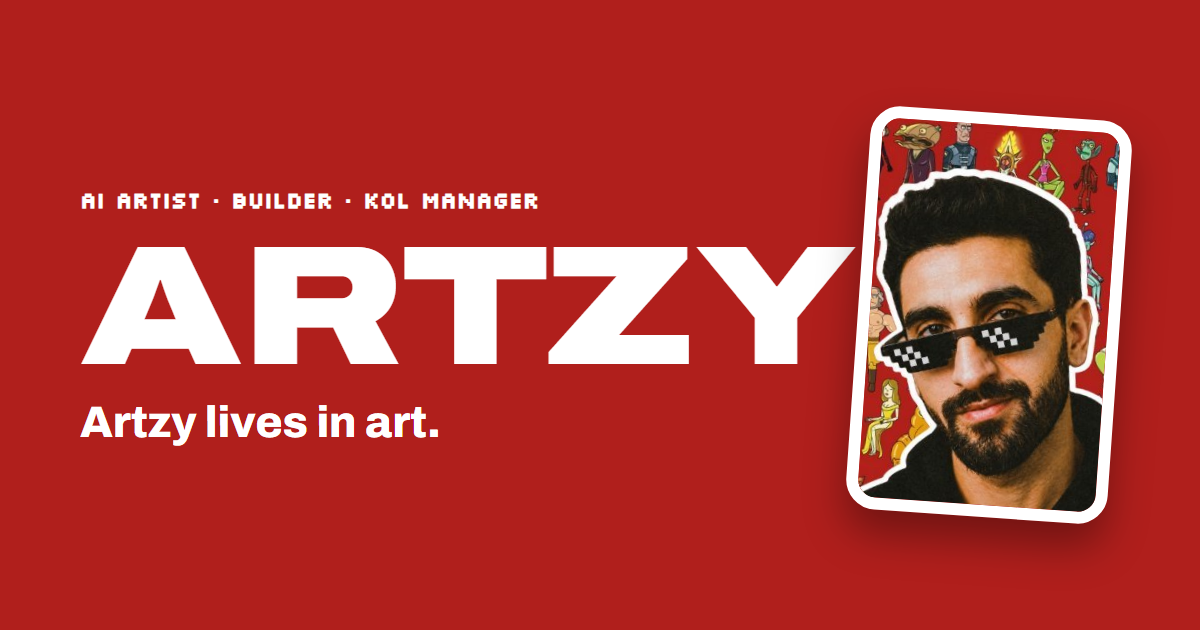
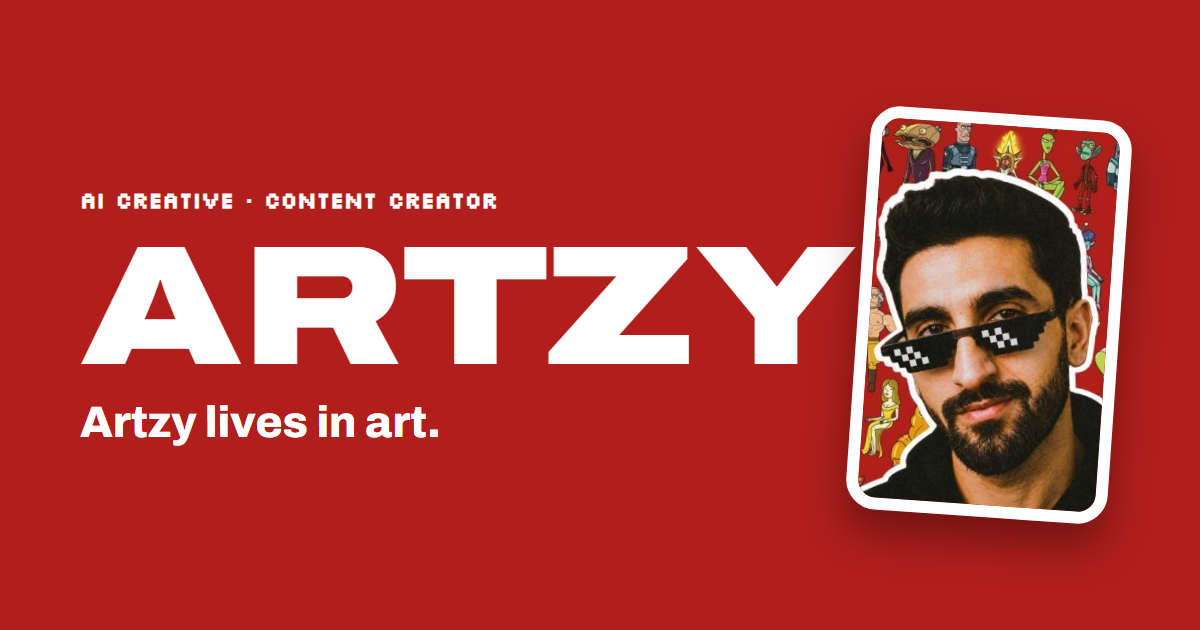
Lead with AI creativity, video and content creation

Changed region(s): [[0.0925, 0.3016, 0.4625, 0.3317]]

diff --git a/index.html b/index.html
@@ -3,9 +3,9 @@
 <head>
 <meta charset="utf-8">
 <meta name="viewport" content="width=device-width, initial-scale=1, viewport-fit=cover">
-<title>Artzy · AI artist & builder</title>
-<meta name="description" content="Artzy lives in art. AI artist, builder and KOL manager in crypto since 2021. Builds with Ledger, community with Base.">
-<meta property="og:title" content="Artzy · AI artist & builder">
+<title>Artzy · AI creative & content creator</title>
+<meta name="description" content="Artzy lives in art. AI creative and content creator: AI videos, art, guides and tools. Deep in AI since ChatGPT launched, in crypto since 2021.">
+<meta property="og:title" content="Artzy · AI creative & content creator">
 <meta property="og:description" content="Artzy lives in art. AI films, agent builds and community work across AI and web3.">
 <meta property="og:image" content="https://webartzy.github.io/assets/og.png">
 <meta property="og:type" content="website">
@@ -80,6 +80,20 @@ nav ul a:hover{color:var(--paper)}
 .do-card h3{font-size:20px;font-weight:800}
 .do-card p{color:var(--muted);font-size:15px}
 
+/* story */
+.story{display:grid;gap:22px;border-top:1px solid var(--line);padding-top:36px}
+.story .big{font:800 clamp(28px,4vw,46px)/1.08 var(--display);font-stretch:108%;max-width:24ch;text-wrap:balance}
+.story .big em{font-style:normal;color:var(--red-text)}
+.story-cols{display:grid;grid-template-columns:repeat(2,minmax(0,1fr));gap:28px;color:var(--muted);font-size:18px}
+
+/* video formats */
+.formats{display:grid;grid-template-columns:repeat(2,minmax(0,1fr));gap:12px}
+.format{border:1px solid var(--line);border-radius:16px;padding:24px;display:grid;gap:10px;align-content:start;background:linear-gradient(180deg,var(--panel),var(--ink))}
+.format h3{font-size:24px;font-weight:900;font-stretch:112%}
+.format p{color:var(--muted);font-size:16px}
+.btn-line{justify-self:start;text-decoration:none;font-family:var(--pixel);font-size:12px;text-transform:uppercase;border-bottom:2px solid var(--red);padding-bottom:4px}
+.btn-line:hover{color:var(--red-text)}
+
 /* experience timeline */
 .timeline{list-style:none;margin:0;padding:0;display:grid;border-top:1px solid var(--line)}
 .job{display:grid;grid-template-columns:150px minmax(0,1fr) minmax(0,1.3fr);gap:24px;padding-block:26px;border-bottom:1px solid var(--line);align-items:start}
@@ -128,6 +142,7 @@ footer{display:flex;flex-wrap:wrap;justify-content:space-between;gap:10px;color:
   .job{grid-template-columns:1fr;gap:10px}
 }
 @media (max-width:720px){
+  .story-cols,.formats{grid-template-columns:1fr}
   .hero{grid-template-columns:1fr;padding:28px 22px}
   .hero-art{order:-1;justify-items:start}
   .sticker{width:min(64%,240px)}
@@ -155,10 +170,10 @@ footer{display:flex;flex-wrap:wrap;justify-content:space-between;gap:10px;color:
 
   <header class="hero" id="top">
     <div class="hero-copy">
-      <p class="px">AI artist · builder · KOL manager</p>
+      <p class="px">AI creative · content creator · builder</p>
       <h1>Artzy</h1>
       <p class="tag">Artzy lives in art.</p>
-      <p class="intro">I make AI films and art, build small tools that show where AI meets web3, and bring creators together. In crypto since 2021, and a self-custody believer.</p>
+      <p class="intro">I'm a creative first. I turn new AI tools into videos, art and stories people actually want to watch, and I build my own tools along the way. Deep in AI since the day ChatGPT launched, in crypto since 2021.</p>
       <div class="cta-row">
         <a class="btn" href="#contact">Work with me</a>
         <a class="btn ghost" href="https://x.com/heyartzy" target="_blank" rel="noopener">Follow on X ↗</a>
@@ -177,25 +192,56 @@ footer{display:flex;flex-wrap:wrap;justify-content:space-between;gap:10px;color:
   </header>
 
   <div class="facts">
+    <div class="fact"><b>2022</b><span>deep in AI since ChatGPT launched</span></div>
+    <div class="fact"><b>Daily</b><span>creating and building with AI</span></div>
     <div class="fact"><b>2021</b><span>in crypto since</span></div>
-    <div class="fact"><b>200+</b><span>KOLs worked with on campaigns</span></div>
-    <div class="fact"><b>4</b><span>open-source builds shipped</span></div>
-    <div class="fact"><b>Op3n</b><span>community activation winner</span></div>
+    <div class="fact"><b>Op3n</b><span>AI short film, activation winner</span></div>
   </div>
 
-  <section aria-labelledby="do">
-    <div class="head"><p class="px red">What I do</p><h2 id="do">Art, builds and people</h2></div>
-    <div class="do">
-      <div class="do-card"><span class="ic">01</span><h3>AI films &amp; art</h3><p>Short cinematic videos and AI art. Story first, product second.</p></div>
-      <div class="do-card"><span class="ic">02</span><h3>Vibe-coded builds</h3><p>Small open-source tools that turn an AI × web3 idea into a demo people can try.</p></div>
-      <div class="do-card"><span class="ic">03</span><h3>KOL management</h3><p>I brief, coordinate and review creators on campaigns, from first DM to final report.</p></div>
-      <div class="do-card"><span class="ic">04</span><h3>Community</h3><p>Moderating, onboarding and showing up in the replies every day.</p></div>
+  <section aria-labelledby="story">
+    <div class="story">
+      <p class="px red">My story</p>
+      <p class="big">The day ChatGPT launched, I went all in on AI creativity. <em>I haven't stopped since.</em></p>
+      <div class="story-cols">
+        <p>I've watched every wave up close: the first chatbots, the image models, the video models, and now agents. I don't just read about the updates. I open them on day one, test them, and use them in my work every single day.</p>
+        <p>When a tool I need doesn't exist, I build it. That's how FinalSay and Agent Pays Agent started. Everything I learn turns into content, so the people who follow me get the honest version: what works, what breaks, and how to make something good with it.</p>
+      </div>
     </div>
   </section>
 
+  <section aria-labelledby="do">
+    <div class="head"><p class="px red">What I do</p><h2 id="do">Creative work, made with AI</h2></div>
+    <div class="do">
+      <div class="do-card"><span class="ic">01</span><h3>AI video</h3><p>Cinematic shorts, brand and product videos, character and fashion pieces, and practical tutorials. I write, prompt, direct and edit every one.</p></div>
+      <div class="do-card"><span class="ic">02</span><h3>Content creation</h3><p>Posts, threads, X articles and guides that turn new AI tools into something people can use today. Plus a daily build journal.</p></div>
+      <div class="do-card"><span class="ic">03</span><h3>AI art &amp; direction</h3><p>Visual concepts, storyboards and style boards. I care about the idea before the prompt.</p></div>
+      <div class="do-card"><span class="ic">04</span><h3>Tools I build</h3><p>Vibe-coded tools for my own workflow and open-source demos where AI meets web3.</p></div>
+    </div>
+  </section>
+
+  <section aria-labelledby="video">
+    <div class="head"><p class="px red">Video</p><h2 id="video">Videos that tell a story</h2></div>
+    <div class="formats">
+      <div class="format"><h3>Cinematic AI shorts</h3><p>Story-led films made with the newest video models. My short for Ledger Op3n won the community activation.</p><span class="px red">Story · mood · pacing</span></div>
+      <div class="format"><h3>Brand &amp; product videos</h3><p>Launches, features and announcements told as a story, not an ad. Made for brands in AI and web3.</p><span class="px red">Concept to final cut</span></div>
+      <div class="format"><h3>Tutorials &amp; walkthroughs</h3><p>Screen recordings and step-by-step guides that show a tool working for real, from install to result.</p><span class="px red">Practical · honest</span></div>
+      <div class="format"><h3>Character &amp; fashion</h3><p>Consistent characters, outfit transitions and style boards turned into motion. I wrote a guide on keeping faces and scenes consistent.</p><span class="px red">Consistency · craft</span></div>
+    </div>
+    <a class="btn-line" href="https://x.com/heyartzy/media" target="_blank" rel="noopener">Watch my latest videos on X ↗</a>
+  </section>
+
   <section id="experience" aria-labelledby="exp">
-    <div class="head"><p class="px red">Experience</p><h2 id="exp">Where I've worked</h2></div>
+    <div class="head"><p class="px red">Experience</p><h2 id="exp">Experience</h2></div>
     <ol class="timeline">
+      <li class="job">
+        <span class="when">2022 – now</span>
+        <div class="org"><h3>Artzy</h3><span>AI creative · content creator</span></div>
+        <ul>
+          <li>Creating with AI daily since ChatGPT launched: videos, art, guides and tools</li>
+          <li><strong>AI videos and content</strong> for brands and communities in AI and web3</li>
+          <li>Building in public with a daily journal and open-source tools</li>
+        </ul>
+      </li>
       <li class="job">
         <span class="when">2025 – now</span>
         <div class="org"><h3>Ledger</h3><span>Discord admin · inner circle</span></div>
@@ -279,7 +325,7 @@ footer{display:flex;flex-wrap:wrap;justify-content:space-between;gap:10px;color:
   <section id="contact" aria-labelledby="ct">
     <div class="contact">
       <div>
-        <p class="px">Collaborations · campaigns · videos</p>
+        <p class="px">AI videos · content · brand collabs</p>
         <h2 id="ct">Let's make something</h2>
         <div class="mail">
           <a href="mailto:onchainartzy@gmail.com" id="mail">onchainartzy@gmail.com</a>
